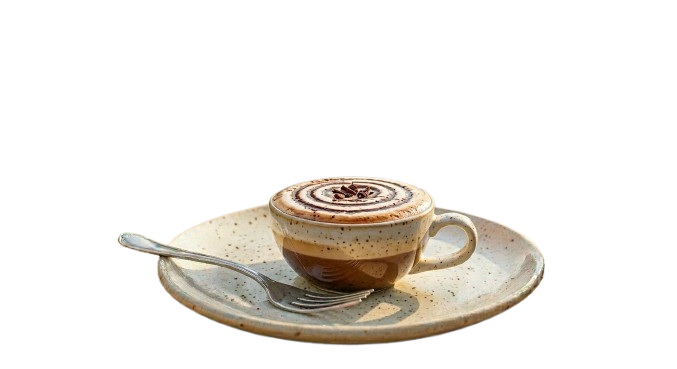
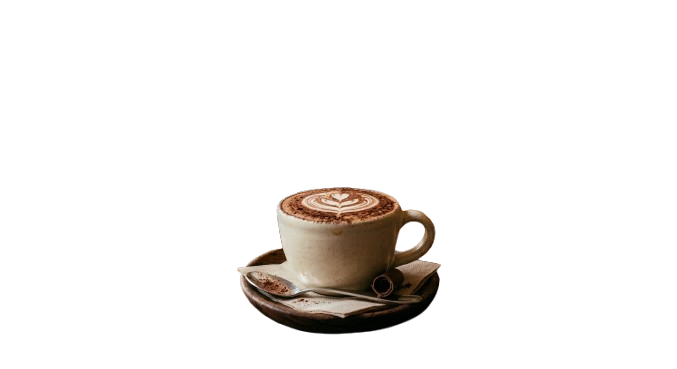
Consertado imagens dos produtos - Adicionado fundo branco aos produtos

Changed region(s): [[0.1551, 0.477, 0.8065, 0.9539]]

diff --git a/lib/produtos.ts b/lib/produtos.ts
@@ -15,10 +15,10 @@ export const produtos: Produto[] = [
     categoria: "Confeitaria",
     preco: 45.0,
     variedade: ["Chocolate", "Morango"],
-    imagem: "/assets/produtos/bolochocolate.png",
+    imagem: "assets/produtos/bolochocolate.png",
     imagensVariedade: {
-      Chocolate: "/assets/produtos/bolochocolate.png",
-      Morango: "/assets/produtos/bolomorango.png",
+      Chocolate: "assets/produtos/bolochocolate.png",
+      Morango: "assets/produtos/bolomorango.png",
     },
   },
   {
@@ -27,7 +27,7 @@ export const produtos: Produto[] = [
     categoria: "Confeitaria",
     preco: 12.0,
     variedade: ["Brigadeiro", "Beijinho", "Casadinho"],
-    imagem: "/assets/produtos/doces.png",
+    imagem: "assets/produtos/doces.png",
   },
   {
     id: 3,
@@ -55,14 +55,14 @@ export const produtos: Produto[] = [
     nome: "Chocolate Quente",
     categoria: "Bebidas",
     preco: 16.0,
-    imagem: "/assets/produtos/",
+    imagem: "/assets/produtos/chocolatequente.png",
   },
   {
     id: 7,
     nome: "Cuca de Doce de Leite",
     categoria: "Confeitaria",
     preco: 18.0,
-    imagem: "/assets/produtos/boloamendoim.png",
+    imagem: "/assets/produtos/cucadocedeleite.png",
   },
   {
     id: 8,
@@ -76,6 +76,6 @@ export const produtos: Produto[] = [
     nome: "Café Expresso",
     categoria: "Bebidas",
     preco: 7.0,
-    imagem: "/assets/produtos/",
+    imagem: "assets/produtos/cafeexpresso.png",
   },
 ];

diff --git a/components/ProductCard.tsx b/components/ProductCard.tsx
@@ -36,8 +36,8 @@ export default function ProductCard({ produto }: ProductCardProps) {
       : produto.imagem;
 
   return (
-    <div className="bg-[#FFF9EE] rounded-2xl border border-[#FDF0D5] shadow-sm hover:shadow-md transition-shadow duration-300 flex flex-col">
-      <div className="relative w-full aspect-[4/3] bg-[#FDF0D5] rounded-t-2xl overflow-hidden">
+    <div className="bg-white rounded-2xl border border-[#E5E7EB] shadow-sm hover:shadow-md transition-shadow duration-300 flex flex-col">
+      <div className="relative w-full aspect-[4/3] bg-white rounded-t-2xl overflow-hidden">
         <Image
           src={imagemAtual}
           alt={produto.nome}
@@ -90,7 +90,7 @@ export default function ProductCard({ produto }: ProductCardProps) {
           <div className="flex items-center gap-2">
             <button
               onClick={() => setQuantidade((q) => Math.max(1, q - 1))}
-              className="w-7 h-7 rounded-full bg-[#FDF0D5] text-[#003049] font-bold hover:bg-[#E8A4B8] transition-colors flex items-center justify-center text-base leading-none"
+              className="w-7 h-7 rounded-full bg-gray-100 text-[#003049] font-bold hover:bg-[#E8A4B8] transition-colors flex items-center justify-center text-base leading-none"
               aria-label="Diminuir quantidade"
             >
               −
@@ -100,7 +100,7 @@ export default function ProductCard({ produto }: ProductCardProps) {
             </span>
             <button
               onClick={() => setQuantidade((q) => q + 1)}
-              className="w-7 h-7 rounded-full bg-[#FDF0D5] text-[#003049] font-bold hover:bg-[#E8A4B8] transition-colors flex items-center justify-center text-base leading-none"
+              className="w-7 h-7 rounded-full bg-gray-100 text-[#003049] font-bold hover:bg-[#E8A4B8] transition-colors flex items-center justify-center text-base leading-none"
               aria-label="Aumentar quantidade"
             >
               +